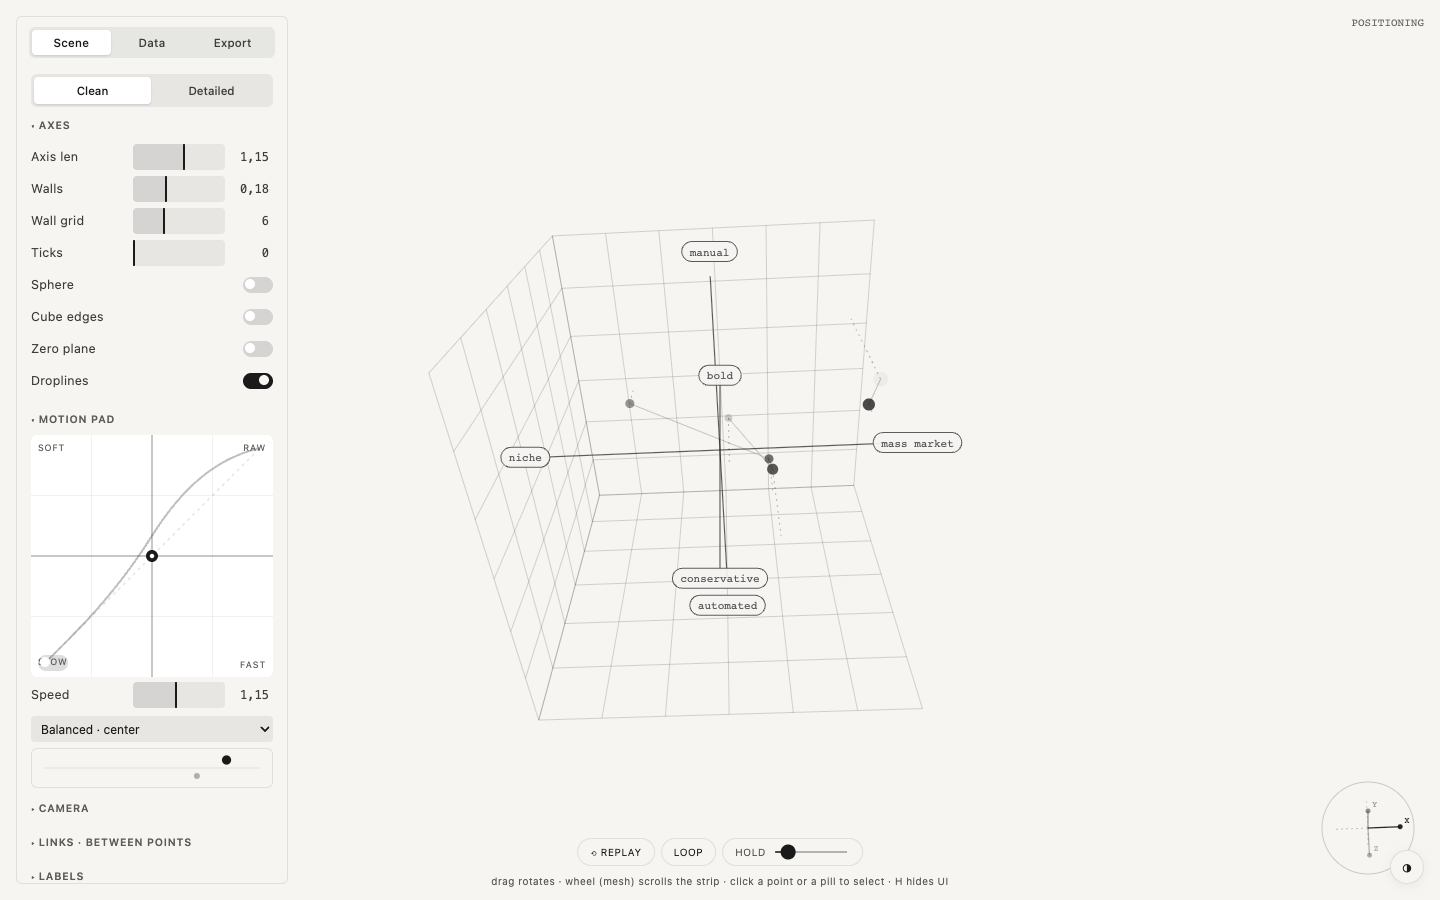
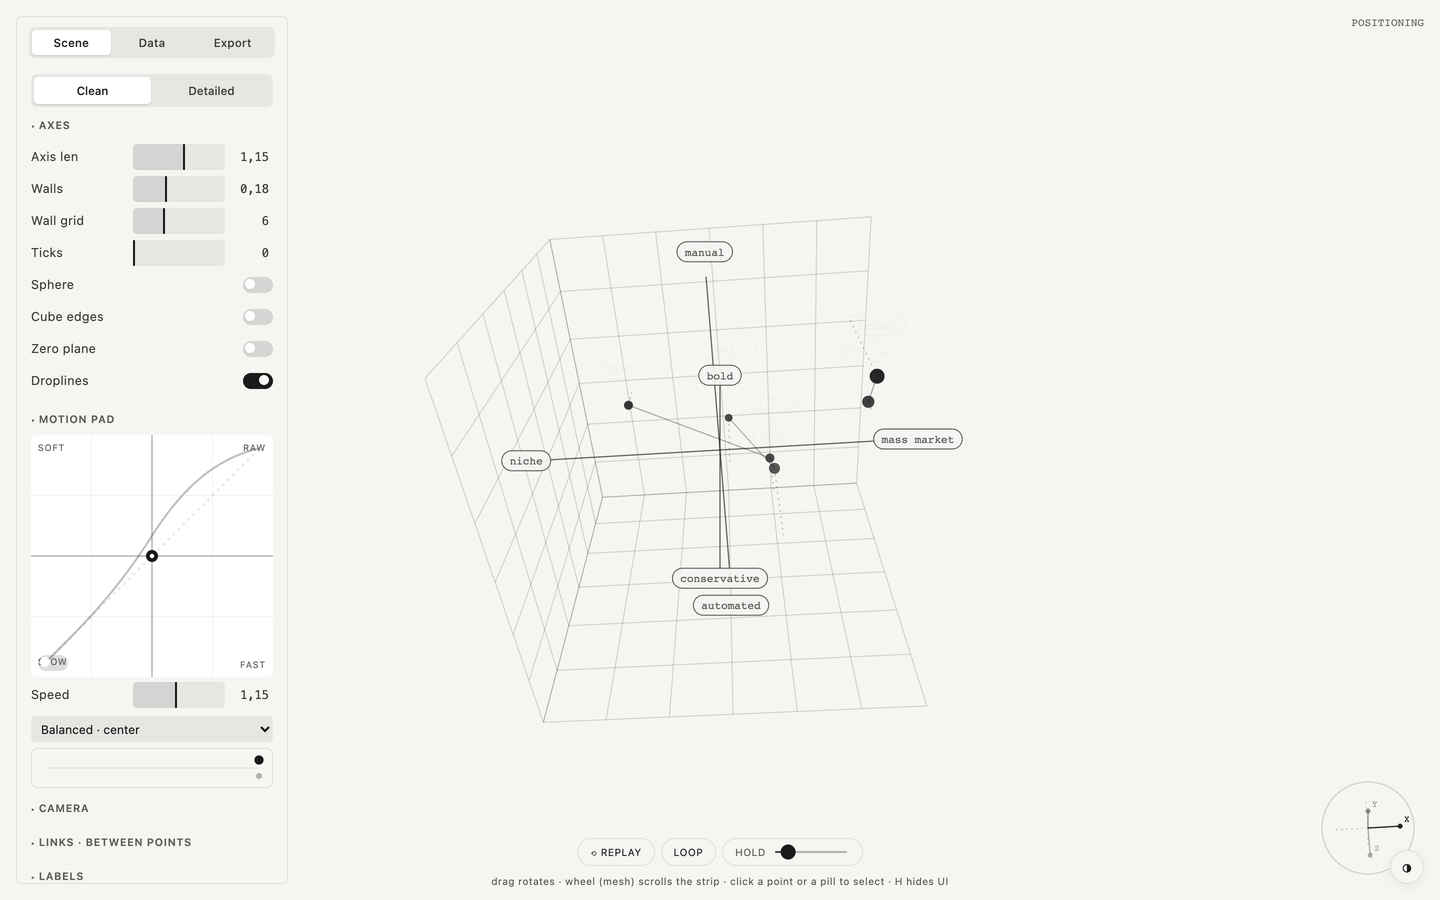
Cover, preview and search-friendly description

diff --git a/index.html b/index.html
@@ -102,7 +102,7 @@
   #mtrans .msp input[type=range]{width:74px;accent-color:var(--ink);height:2px}
   body.noui #panel,body.noui #hint,body.noui #mtrans{display:none}
 </style>
[2 lines of base64/hex data omitted]
 <style>
 :root{--h-bg:#f6f5f2;--h-card:#ecebe6;--h-field:#ffffff;--h-ink:#1a1a1a;--h-ink2:#3d3c39;--h-ink3:#5c5b57;--h-fill:rgba(26,26,26,.07);--h-fill-hover:rgba(26,26,26,.10);--h-fill-strong:rgba(26,26,26,.15);--h-fill-active:rgba(26,26,26,.24);--h-hair:rgba(26,26,26,.10);--h-line:rgba(26,26,26,.14);--h-seg-on:#ffffff;--h-track-s:.02em;--h-ring:oklch(.49 .08 182);--h-sans:-apple-system,BlinkMacSystemFont,"SF Pro Text","SF Pro Display","Inter","Segoe UI",Roboto,Helvetica,Arial,sans-serif;--h-mono:ui-monospace,"SF Mono",SFMono-Regular,Menlo,Consolas,monospace;--h-display:"Inter Tight",-apple-system,BlinkMacSystemFont,"SF Pro Display",system-ui,sans-serif;
   --paper:var(--h-bg);--ink:var(--h-ink);--muted:var(--h-ink3);--line:var(--h-hair);--accent:var(--h-ink);--panel:var(--h-bg)}

diff --git a/README.md b/README.md
@@ -19,6 +19,12 @@
 
 Three axes, your names on them, your points inside. Turn the cube, watch the positions argue with each other, then switch to rings or a bending grid without touching the data.
 
+## Use it for
+
+- a competitor or positioning map for a strategy deck
+- a perceptual map with three axes instead of two
+- a 3D scatter plot you can turn live in a presentation
+
 ## What it does
 
 - **A 3D cube of axes** you name yourself: each axis gets a minus and a plus pole
@@ -39,26 +45,26 @@ Take it if you want it.
 
 ## More tools
 
+- [GONE](https://github.com/robvagin/gone-player) · a macOS player for the thirty minutes before a DJ set
+- [PSP Engine](https://github.com/robvagin/shar-psp-engine) · a native engine that runs a PS2 game on the PSP. Not an emulator
 - [Particle Dance](https://github.com/robvagin/particle-dance) · particles that dance along patterns and 3D forms
+- [Pack Label](https://github.com/robvagin/pack-label) · coffee bag labels, checked and ready for print
+- [Image Shuffler](https://github.com/robvagin/image-shuffler) · your screenshots flying in 3D, recorded as a video
+- [Sunburst](https://github.com/robvagin/sunburst) · a hierarchy as a 3D sunburst chart with height
+- [Halftone Cloud](https://github.com/robvagin/halftone-cloud) · images rebuilt as a halftone of flying shapes
+- [Motion Primer](https://github.com/robvagin/motion-primer) · bodies that swarm, orbit, fall and gather into a word
 - [Murmur](https://github.com/robvagin/murmur-vj) · a VJ visualizer: circles, triangles and squares that move to your music
+- [Particles 3D](https://github.com/robvagin/particles-3d) · a WebGL2 cloud of up to 300,000 particles
+- [Thinking Sphere](https://github.com/robvagin/thinking-sphere) · a glass sphere with soft shapes drifting inside
+- [Line Engine](https://github.com/robvagin/line-engine) · engraved line patterns in motion: Lissajous, rosettes, waves
 - [Orbital](https://github.com/robvagin/orbital) · data as orbits, axes or a bending mesh
 - [Metaballs](https://github.com/robvagin/metaballs) · soft masses that merge, split and leave holes
-- [Halftone Cloud](https://github.com/robvagin/halftone-cloud) · images rebuilt as a halftone of flying shapes
 - [Logomachine](https://github.com/robvagin/logomachine) · seeded generative marks: one seed, one pattern, always
-- [Motion Primer](https://github.com/robvagin/motion-primer) · bodies with behaviors: swarm, pack, magnet, orbit, fall, scatter
-- [Particles 3D](https://github.com/robvagin/particles-3d) · a WebGL2 cloud of up to 300,000 particles
-- [Orb Atom](https://github.com/robvagin/orb-atom) · glass orbs that think: lenses with soft bodies drifting inside
 - [Ellipse Sphere](https://github.com/robvagin/ellipse-sphere) · a sphere built from stacked discs that fan open and assemble
-- [Thinking Sphere](https://github.com/robvagin/thinking-sphere) · a glass sphere with soft shapes drifting inside
-- [SphereGen](https://github.com/robvagin/spheregen) · a glass sphere that bends whatever is behind it: generative scenes, photos, video
-- [Line Engine](https://github.com/robvagin/line-engine) · engraved line patterns: superformulas, rosettes, waves and Lissajous, in motion
 - [Hexbin](https://github.com/robvagin/hexbin) · a point cloud counted into 3D hexagon towers
 - [Chart 3D](https://github.com/robvagin/chart-3d) · pie, bars, polar and area charts in 3D, with an entrance
-- [Sunburst](https://github.com/robvagin/sunburst) · a hierarchy as a 3D sunburst with height
 - [Voronoi](https://github.com/robvagin/voronoi) · points that share space as cells, inside any shape
-- [Image Shuffler](https://github.com/robvagin/image-shuffler) · your screens flying in 3D, ready to record as a video
 - [Motion Pad](https://github.com/robvagin/motion-pad) · one pad for the character of motion
-- [Pack Label](https://github.com/robvagin/pack-label) · one label per coffee lot, checked and ready for print
 
 ## License
 
